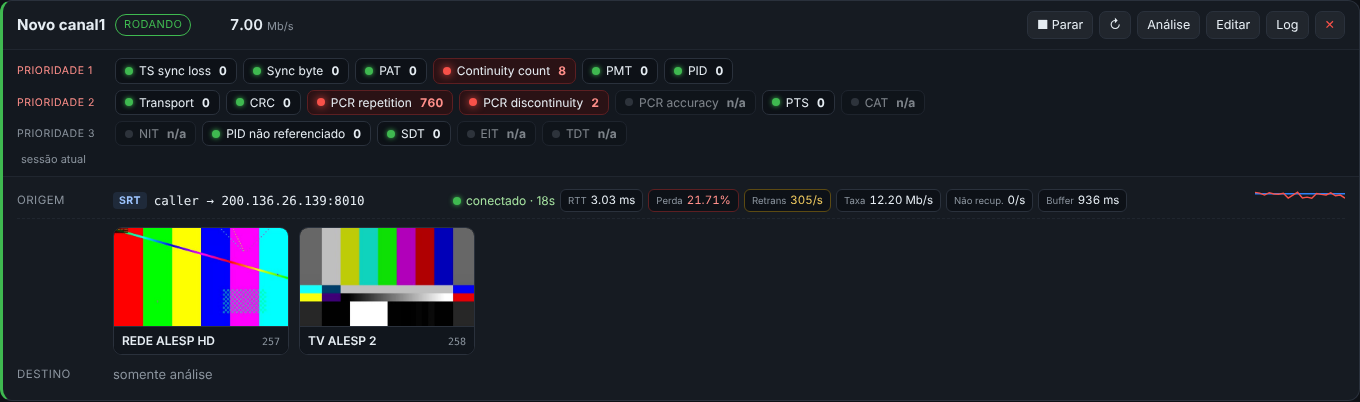
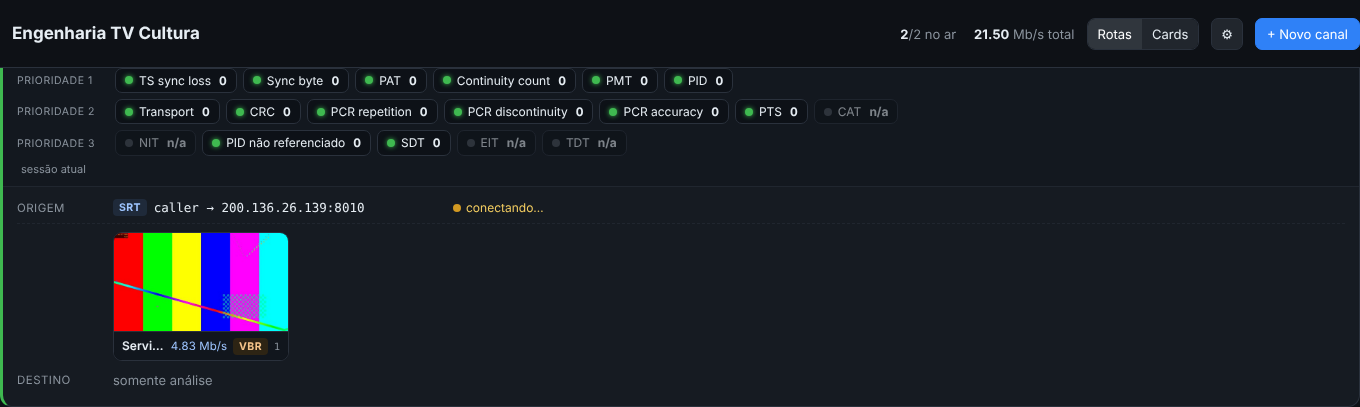
asi2srt 2.14.0: identifica se o sinal é CBR ou VBR (TS e cada serviço)
- classificação pela variação da taxa segundo a segundo (CBR: TS < 2%, serviço < 3%)
- taxa medida pelo relógio do fluxo (PCR): pacotes entre PCRs / tempo entre PCRs, imune a
  rajadas de rede e carga do computador; cai para o tempo de chegada se não houver PCR
- selo CBR/VBR com variação na rota, no card, nas janelas dos serviços e na análise
- nome do serviço na janela não é mais cortado (taxa vai para a segunda linha)

Claude-Session: https://claude.ai/code/session_011TCfVYu9uCxCnx7Wazy44h

diff --git a/asi2srt.py b/asi2srt.py
@@ -47,7 +47,7 @@ import urllib.request
 from http.server import BaseHTTPRequestHandler, ThreadingHTTPServer
 from urllib.parse import parse_qs, urlparse
 
-__version__ = "2.13.2"
+__version__ = "2.14.0"
 TITULO_PADRAO = "Engenharia TV Cultura"
 
 try:
@@ -644,6 +644,19 @@ TIPOS_SERVICO = {
     0x19: "TV HD H.264", 0x1F: "TV HEVC", 0xA1: "TV 1-seg", 0xC0: "Dados ISDB",
 }
 
+def classificar_taxa(valores, limite_cbr_pct, janela=30, minimo=8):
+    """CBR ou VBR a partir das taxas medidas a cada segundo (bit/s).
+    Usa o coeficiente de variação (desvio padrão / média) dos últimos 'janela' segundos com sinal."""
+    v = [x for x in list(valores)[-janela:] if x > 0]
+    if len(v) < minimo:
+        return {"modo": None, "variacao_pct": None, "amostras": len(v)}
+    media = sum(v) / len(v)
+    desvio = (sum((x - media) ** 2 for x in v) / len(v)) ** 0.5
+    cv = 100.0 * desvio / media if media else 0.0
+    return {"modo": "CBR" if cv < limite_cbr_pct else "VBR", "variacao_pct": round(cv, 1),
+            "min": int(min(v)), "max": int(max(v)), "media": int(media), "amostras": len(v)}
+
+
 _INV_BITS = bytes(int(f"{i:08b}"[::-1], 2) for i in range(256))
 
 
@@ -671,6 +684,10 @@ def _texto_dvb(b: bytes) -> str:
     except UnicodeDecodeError:
         s = b.decode("latin-1")
     return "".join(ch for ch in s if ch >= " ").strip()
+
+
+LIMITE_CBR_TS_PCT = 2.0       # TS: taxa total variando menos que isso = CBR
+LIMITE_CBR_SERVICO_PCT = 3.0  # serviço: encoder CBR de verdade fica abaixo de ~3% (janelas de 1 s, pelo PCR)
 
 
 class AnalisadorTS:
@@ -732,6 +749,16 @@ class AnalisadorTS:
         self.taxa = {}
         self.taxa_total = 0
         self.hist_total = collections.deque(maxlen=300)
+        self.hist_serv = {}         # número do programa -> deque das taxas por segundo (por chegada)
+        # taxa medida pelo relógio do próprio fluxo (PCR): não depende de quando os pacotes chegam
+        self.pid_prog = {}          # pid -> número do programa
+        self.pcr_prog = {}          # pid de PCR -> número do programa
+        self.cnt_prog = {}          # número do programa -> pacotes contados
+        self.pcr_cnt = {}           # pid de PCR -> cnt_prog no último PCR
+        self.acc_ts = {}            # pid de PCR -> taxas do TS em cada intervalo de PCR (1 s corrente)
+        self.acc_prog = {}          # programa -> taxas do programa em cada intervalo de PCR
+        self.hist_pcr_ts = collections.deque(maxlen=300)
+        self.hist_serv_pcr = {}
         self.emb = {}               # pid -> último pacote embaralhado?
         self.ultimo_scr = None
         # PCR
@@ -778,6 +805,7 @@ class AnalisadorTS:
         idx0 = self.pacotes
         self.pacotes += n
         npid, visto, cc_est, es_pids, pmt_pids = self.n_pid, self.visto, self.cc, self.es_pids, self.pmt_pids
+        pid_prog, cnt_prog = self.pid_prog, self.cnt_prog
         for k in range(n):
             i = k * 188
             if d[i] != 0x47:
@@ -799,6 +827,9 @@ class AnalisadorTS:
             pid = ((b1 & 0x1F) << 8) | d[i + 2]
             npid[pid] = npid.get(pid, 0) + 1
             visto[pid] = agora
+            pp = pid_prog.get(pid)
+            if pp is not None:
+                cnt_prog[pp] = cnt_prog.get(pp, 0) + 1
             if pid == 0x1FFF:
                 continue
             if b1 & 0x80:
@@ -850,15 +881,26 @@ class AnalisadorTS:
         st = self.pcr.get(pid)
         if st is None or disc:
             self.pcr[pid] = [pcr, idx, pcr, idx, st[4] if st and not disc else None]
+            num = self.pcr_prog.get(pid)
+            self.pcr_cnt[pid] = self.cnt_prog.get(num, 0) if num is not None else None
             return
         ult, uidx, apcr, aidx, taxa = st
         dif = pcr - ult
+        num = self.pcr_prog.get(pid)
+        c_agora = self.cnt_prog.get(num, 0) if num is not None else None
+        c_ant = self.pcr_cnt.get(pid)
+        self.pcr_cnt[pid] = c_agora
         if dif < 0 or dif > self.PCR_DISC:
             self._erro("pcr_disc", agora)
             self.pcr[pid] = [pcr, idx, pcr, idx, None]
             return
         if dif > self.PCR_REP:
             self._erro("pcr_rep", agora)
+        if dif > 0 and idx > uidx:
+            dt = dif / 27_000_000
+            self.acc_ts.setdefault(pid, []).append((idx - uidx) * 1504 / dt)
+            if c_agora is not None and c_ant is not None and c_agora >= c_ant:
+                self.acc_prog.setdefault(num, []).append((c_agora - c_ant) * 1504 / dt)
         if dif > jan[0]:
             jan[0] = dif
         if taxa:
@@ -984,6 +1026,7 @@ class AnalisadorTS:
             self.pmt_pids = novos
             self.es_pids = {k: v for k, v in self.es_pids.items() if v[0] in novos}
             self.programas = {k: v for k, v in self.programas.items() if k in novos}
+            self._mapear_programas()
 
     def _pmt(self, pid, sec, agora):
         if sec[0] != 0x02:
@@ -1018,6 +1061,22 @@ class AnalisadorTS:
         self.es_pids.update(es)
         self.programas[pid] = {"pcr_pid": pcr_pid, "ca": ca}
         self.ca_pids |= ca
+        self._mapear_programas()
+
+    def _mapear_programas(self):
+        pp, pcr = {}, {}
+        for ppid, num in self.pmt_pids.items():
+            pp[ppid] = num
+            c = (self.programas.get(ppid) or {}).get("pcr_pid")
+            if c is not None and c != 0x1FFF:
+                pcr[c] = num
+                pp.setdefault(c, num)
+        for e, v in self.es_pids.items():
+            if v[0] in self.pmt_pids:
+                pp[e] = self.pmt_pids[v[0]]
+        self.pid_prog.clear()
+        self.pid_prog.update(pp)
+        self.pcr_prog = pcr
 
     def _sdt(self, sec):
         if len(sec) < 15:
@@ -1058,6 +1117,20 @@ class AnalisadorTS:
             self.taxa = {p: (n - self.n_ant.get(p, 0)) * 1504 / dt for p, n in self.n_pid.items()}
             self.taxa_total = sum(self.taxa.values())
             self.hist_total.append(int(self.taxa_total))
+            if self.acc_ts:
+                ref = max(self.acc_ts, key=lambda p: len(self.acc_ts[p]))
+                v = self.acc_ts[ref]
+                self.hist_pcr_ts.append(int(sum(v) / len(v)))
+            for num, v in self.acc_prog.items():
+                self.hist_serv_pcr.setdefault(num, collections.deque(maxlen=60)).append(int(sum(v) / len(v)))
+            self.acc_ts, self.acc_prog = {}, {}
+            for ppid, num in self.pmt_pids.items():
+                pids = {ppid} | {e for e, v in self.es_pids.items() if v[0] == ppid}
+                pcr = (self.programas.get(ppid) or {}).get("pcr_pid")
+                if pcr is not None and pcr != 0x1FFF:
+                    pids.add(pcr)
+                self.hist_serv.setdefault(num, collections.deque(maxlen=60)).append(
+                    int(sum(self.taxa.get(p, 0) for p in pids)))
             if self.taxa_total > 0 and self.ultimo_pacote is not None and agora - self.ultimo_pacote < self.LIM_SINAL:
                 e = self.est_taxa
                 e[0] += 1
@@ -1166,17 +1239,31 @@ class AnalisadorTS:
                     pids.add(pcr)
                 out.append({"numero": num, "nome": sdt[0] if sdt and sdt[0] else f"Programa {num}",
                             "video": any(v[0] == ppid and v[2] == "video" for v in self.es_pids.values()),
-                            "taxa": int(sum(self.taxa.get(p, 0) for p in pids)) if fluindo else 0})
+                            "taxa": int(sum(self.taxa.get(p, 0) for p in pids)) if fluindo else 0,
+                            "modo": self._modo_serv(num)})
             return out
 
+    def _modo_ts(self):
+        if len(self.hist_pcr_ts) >= 8:
+            return {**classificar_taxa(self.hist_pcr_ts, LIMITE_CBR_TS_PCT), "fonte": "PCR"}
+        return {**classificar_taxa(self.hist_total, LIMITE_CBR_TS_PCT), "fonte": "chegada"}
+
+    def _modo_serv(self, num):
+        h = self.hist_serv_pcr.get(num)
+        if h and len(h) >= 8:
+            return {**classificar_taxa(h, LIMITE_CBR_SERVICO_PCT), "fonte": "PCR"}
+        return {**classificar_taxa(self.hist_serv.get(num, ()), LIMITE_CBR_SERVICO_PCT), "fonte": "chegada"}
+
     def taxas(self):
-        """Taxa total do TS e taxa útil (sem pacotes nulos), em bit/s, medidas a cada 1 s."""
+        """Taxa total do TS e taxa útil (sem pacotes nulos), em bit/s, medidas a cada 1 s, e se é CBR ou VBR."""
         with self.lock:
             fluindo = self.ultimo_pacote is not None and time.monotonic() - self.ultimo_pacote < self.LIM_SINAL
+            modo = self._modo_ts()
             if not fluindo:
-                return {"taxa_ts": 0, "taxa_util": 0, "taxa_nulos": 0}
+                return {"taxa_ts": 0, "taxa_util": 0, "taxa_nulos": 0, "modo_ts": modo}
             nulos = int(self.taxa.get(0x1FFF, 0))
-            return {"taxa_ts": int(self.taxa_total), "taxa_util": int(self.taxa_total) - nulos, "taxa_nulos": nulos}
+            return {"taxa_ts": int(self.taxa_total), "taxa_util": int(self.taxa_total) - nulos, "taxa_nulos": nulos,
+                    "modo_ts": modo}
 
     def _desc_pid(self, pid):
         fixos = {0: "PAT", 1: "CAT", 2: "TSDT", 0x10: "NIT", 0x11: "SDT/BAT", 0x12: "EIT",
@@ -1256,6 +1343,7 @@ class AnalisadorTS:
                 if pcr_pid is not None and pcr_pid not in self.es_pids:
                     tx += int(self.taxa.get(pcr_pid, 0)) if fluindo else 0
                 servicos.append({
+                    "modo": self._modo_serv(num),
                     "numero": num, "nome": sdt[0] or f"Programa {num}", "provedor": sdt[1],
                     "tipo": TIPOS_SERVICO.get(sdt[2], f"0x{sdt[2]:02X}" if sdt[2] is not None else ""),
                     "pmt": f"0x{ppid:04X}", "pcr_pid": f"0x{pcr_pid:04X}" if pcr_pid is not None else "",
@@ -1281,7 +1369,8 @@ class AnalisadorTS:
                     "taxa_util": int(total - (self.taxa.get(0x1FFF, 0) if fluindo else 0)),
                     "tsid": self.tsid, "onid": self.onid, "rede": self.rede, "hora_ts": self.hora_ts,
                     "n_pids": len(self.n_pid), "n_servicos": len(self.pmt_pids),
-                    "cbr": self.taxa.get(0x1FFF, 0) > 0, "pacotes": self.pacotes, "desde": self.desde,
+                    "cbr": self.taxa.get(0x1FFF, 0) > 0, "modo_taxa": self._modo_ts(),
+                    "pacotes": self.pacotes, "desde": self.desde,
                 },
                 "tr101290": {
                     "contadores": dict(self.cont),
@@ -2977,9 +3066,13 @@ color:#ffd8d6;padding:10px 16px;border-radius:9px;z-index:20;max-width:90vw}
  color:var(--mut);font-size:11px;line-height:1.3}
 .pv [hidden]{display:none!important}
 .pv .pvn{display:flex;gap:6px;align-items:baseline;padding:5px 8px;font-size:12px;background:#11161d;border-top:1px solid var(--line)}
+.modo{display:inline-block;font-size:10.5px;font-weight:700;letter-spacing:.04em;padding:1px 6px;border-radius:4px;vertical-align:middle}
+.modo small{font-weight:400;opacity:.8}.modo.cbr{background:#1f2a3a;color:#9ec5ff}.modo.vbr{background:#2d2414;color:#f5c48a}
+.modo.med{background:#1c2128;color:var(--mut);font-weight:400}
 .pv .pvn .pvt{font-size:11.5px;font-variant-numeric:tabular-nums;color:#9ec5ff;white-space:nowrap}
 .rb .ut{display:block;font-size:11px;font-weight:400;color:var(--mut)}.rb .ut b{color:#a6e3a1;font-weight:600}
-.pv .pvn b{font-weight:600;white-space:nowrap;overflow:hidden;text-overflow:ellipsis;flex:1}.pv .pvn small{color:var(--mut);font-family:ui-monospace,monospace}
+.pv .pvn{flex-wrap:wrap;row-gap:2px}
+.pv .pvn b{font-weight:600;white-space:nowrap;overflow:hidden;text-overflow:ellipsis;flex:1 1 100%}.pv .pvn small{color:var(--mut);font-family:ui-monospace,monospace}
 .pv.sai{outline:2px solid #2f81f7;outline-offset:-1px}
 .pv.g{width:240px;flex:none}.serv .sh .pv{margin:-2px 4px -2px -4px}
 .svout{display:inline-flex;align-items:center;gap:6px}.svout img{width:48px;height:27px;object-fit:cover;border-radius:4px;border:1px solid var(--line);background:#05070a}
@@ -3138,7 +3231,7 @@ function card(c){const s=c.status||{},ativo=s.estado!=='parado';s._id=c.id;
  ${ativo&&(s.servicos||[]).length?`<div class="svs">${s.servicos.map(sv=>{const sai=c.saidas.some(x=>{const r=servRotulo(x,s.servicos);return !r||r.some(q=>String(q.numero)===String(sv.numero))});
    return prevBox(c.id,sv,sai&&c.saidas.length?'sai':'')}).join('')}</div>`:''}
  ${!ativo&&c.ultimo_relatorio?relCard(c):`${spark(s.historico)}
- <div class="met"><div>${(()=>{const x=taxaTS(s);return`<small>Bitrate do TS</small><b class="big">${mb(x.ts)}<small> Mb/s</small></b>${x.temNulos?`<small style="color:var(--mut)">útil <b style="color:#a6e3a1;font-size:12px">${mb(x.ut)}</b> · nulos ${mb(x.nul)}</small>`:''}`})()}</div>
+ <div class="met"><div>${(()=>{const x=taxaTS(s);return`<small>Bitrate do TS ${seloModo(s.modo_ts,true)}</small><b class="big">${mb(x.ts)}<small> Mb/s</small></b>${x.temNulos?`<small style="color:var(--mut)">útil <b style="color:#a6e3a1;font-size:12px">${mb(x.ut)}</b> · nulos ${mb(x.nul)}</small>`:''}`})()}</div>
  <div><small>Reinícios</small><b>${s.reinicios||0}</b></div><div><small>Uptime</small><b>${dur(s.uptime_s)}</b></div></div>`}
  ${tr(s)}
  <div class="msg" title="${esc(s.ultima_msg)}">${esc(s.ultima_msg||'')}</div>
@@ -3178,13 +3271,16 @@ function no(rot,x,e,ativo,ps,cid,lista){const tp=TIPO_TXT[x.tipo]||x.tipo,cl=x.t
  <span class="chips">${st}${chipServ}${e?chipsSRT(e):''}${ps&&ps.estado==='rodando'?`${!e&&ps.info&&ps.info.taxa_kbps?`<span class="chip"><small>Taxa</small>${(ps.info.taxa_kbps/1000).toFixed(2)} Mb/s</span>`:''}<span class="chip"><small>Enviado</small>${fmtB(ps.enviado_conexao_bytes)}</span>${ps.info&&ps.info.velocidade?`<span class="chip"><small>Veloc.</small>${esc(ps.info.velocidade)}</span>`:''}${ps.reinicios?`<span class="chip w" title="vezes que a saída caiu e reconectou"><small>Quedas</small>${ps.reinicios}</span>`:''}`:''}${falha}</span>${e&&e.estado==='conectado'?mspark(e.hist):ps&&ps.estado==='rodando'&&ps.hist&&ps.hist.length>1?mspark(ps.hist.map(v=>[v,0,0])):'<span></span>'}</div>`}
 const PREV={};let prevAlvos=new Set();
 const mbps=b=>(b/1e6).toFixed(2)+' Mb/s';
+function seloModo(m,curto){if(!m)return'';if(!m.modo)return curto?'':`<span class="modo med" title="medindo a variação da taxa (${m.amostras||0} s)">medindo…</span>`;
+ const tip=`${m.modo==='CBR'?'Taxa constante':'Taxa variável'} — variação ${m.variacao_pct}% nos últimos ${m.amostras} s`+(m.min?` (mín ${mbps(m.min)}, máx ${mbps(m.max)})`:'');
+ return`<span class="modo ${m.modo.toLowerCase()}" title="${esc(tip)}">${m.modo}${curto?'':` <small>±${m.variacao_pct}%</small>`}</span>`}
 function taxaTS(s){const ts=s.taxa_ts||s.bitrate_bps||0,ut=s.taxa_util||0,nul=s.taxa_nulos||0;
  return{ts,ut,nul,temNulos:ts>0&&nul/ts>0.02}}
 function prevBox(cid,s,cls){const k=`${cid}:${s.numero}`,p=PREV[k]||{};
  const msg=!s.video?'♪ sem vídeo':p.u?'':esc(p.erro||'carregando imagem…');
  if(s.video)prevAlvos.add(k);
  return`<div class="pv ${cls||''}" title="${esc(s.nome)} · serviço ${s.numero}"><div class="im">${s.video?`<img data-prev="${k}" ${p.u?`src="${p.u}"`:'hidden'} alt="">`:''}
- <div class="pvm" data-prevmsg="${k}" ${p.u?'hidden':''}>${msg}</div></div><div class="pvn"><b>${esc(s.nome)}</b>${s.taxa?`<span class="pvt" title="taxa deste serviço (vídeo + áudio + dados do programa)">${mbps(s.taxa)}</span>`:''}<small>${s.numero}</small></div></div>`}
+ <div class="pvm" data-prevmsg="${k}" ${p.u?'hidden':''}>${msg}</div></div><div class="pvn"><b>${esc(s.nome)}</b>${s.taxa?`<span class="pvt" title="taxa deste serviço (vídeo + áudio + dados do programa)">${mbps(s.taxa)}</span>${seloModo(s.modo,true)}`:''}<small>${s.numero}</small></div></div>`}
 let prevOcupado=false;
 async function atualizarPrevias(){if(prevOcupado||document.hidden)return;prevOcupado=true;
  try{for(const k of [...prevAlvos]){const [cid,sid]=k.split(':');
@@ -3219,7 +3315,7 @@ function linha(c){const s=c.status||{},ativo=s.estado!=='parado',srt=s.srt||{},t
   +`<button data-a="editar" data-id="${c.id}">Editar</button><button data-a="log" data-id="${c.id}">Log</button><button class="perigo" data-a="excluir" data-id="${c.id}">✕</button>`;
  const destinos=c.saidas.length?c.saidas.map((x,i)=>no('Destino '+(i+1),x,srt['SRTOUT'+i],ativo,(s.saidas||[])[i],c.id,s.servicos)).join(''):'<div class="no"><span class="pp">Destino</span><span class="ed" style="color:var(--mut)">somente análise</span><span></span><span></span></div>';
  return`<div class="rota e-${esc(s.estado)}"><div class="rh"><b class="rn" data-ana="${c.id}">${esc(c.nome)}</b><span class="pill ${esc(s.estado)}">${esc((s.estado||'').replace('_',' '))}</span>
- ${dots}<span class="rb">${ativo?(()=>{const x=taxaTS(s);return`<span title="taxa total do TS (inclui pacotes nulos)">${mb(x.ts)} <small>Mb/s TS</small></span>${x.temNulos?`<span class="ut" title="sem pacotes nulos (enchimento)">útil <b>${mb(x.ut)}</b> · nulos ${mb(x.nul)}</span>`:''}`})():r?`<small>méd.</small> ${mb(r.taxa.media)} <small>Mb/s</small>`:''}</span><span class="acs">${acs}</span></div>
+ ${dots}<span class="rb">${ativo?(()=>{const x=taxaTS(s);return`<span title="taxa total do TS (inclui pacotes nulos)">${mb(x.ts)} <small>Mb/s TS</small></span> ${seloModo(s.modo_ts)}${x.temNulos?`<span class="ut" title="sem pacotes nulos (enchimento)">útil <b>${mb(x.ut)}</b> · nulos ${mb(x.nul)}</span>`:''}`})():r?`<small>méd.</small> ${mb(r.taxa.media)} <small>Mb/s</small>`:''}</span><span class="acs">${acs}</span></div>
  ${indicadores(ativo?t:null,ativo?null:r)}
  <div class="rl">${no('Origem',c.entrada,srt.SRTIN,ativo)}
  ${ativo&&(s.servicos||[]).length?`<div class="svs">${s.servicos.map(sv=>{const sai=c.saidas.some(x=>{const r=servRotulo(x,s.servicos);return !r||r.some(q=>String(q.numero)===String(sv.numero))});
@@ -3338,7 +3434,8 @@ function rAna(){const a=ana,r=a.resumo,t=a.tr101290,S=a.salvo,p=a.periodo||{},ts
   +(p.motivo==='em andamento'?' Sessão ainda em andamento: este é o último salvamento automático.':'');
  $('#akpi').innerHTML=(S?kpi('Duração',dur(p.duracao_s))+kpi('Bitrate médio',fmtR(ts.media))+kpi('Bitrate mínimo',fmtR(ts.min))+kpi('Bitrate máximo',fmtR(ts.max))
   :kpi('Bitrate TS',fmtR(r.taxa_total))+kpi('Bitrate útil',fmtR(r.taxa_util),'Sem pacotes nulos')+kpi('Sessão',dur(p.duracao_s)))
-  +kpi('Taxa',r.cbr?'CBR':'VBR','CBR = TS com pacotes nulos (taxa constante)')+kpi('TS ID',r.tsid??'—')+kpi('Rede',esc(r.rede||'—'))
+  +kpi('Taxa do TS',r.modo_taxa&&r.modo_taxa.modo?`${r.modo_taxa.modo} <small style="font-size:12px;color:var(--mut)">±${r.modo_taxa.variacao_pct}%</small>`:'medindo…',
+     r.modo_taxa&&r.modo_taxa.modo?`variação da taxa total nos últimos ${r.modo_taxa.amostras} s (mín ${fmtR(r.modo_taxa.min)}, máx ${fmtR(r.modo_taxa.max)}). CBR abaixo de 2%.`:'')+kpi('TS ID',r.tsid??'—')+kpi('Rede',esc(r.rede||'—'))
   +kpi('Serviços',r.n_servicos)+kpi('PIDs',r.n_pids)+kpi('Hora do TS',esc((r.hora_ts||'—').split(' ').pop()),'Data/hora da TDT/TOT: '+(r.hora_ts||'não recebida'))
   +kpi('Pacotes',r.pacotes.toLocaleString('pt-BR'));
  $('#adesde').textContent='desde '+new Date(r.desde*1000).toLocaleTimeString('pt-BR');
@@ -3402,7 +3499,7 @@ function rAna(){const a=ana,r=a.resumo,t=a.tr101290,S=a.salvo,p=a.periodo||{},ts
   const dest=cfgA.map((x,i)=>{const r=servRotulo(x,a.servicos.map(q=>({numero:q.numero,nome:q.nome})));return(!r||r.some(q=>String(q.numero)===String(s.numero)))?`<b>Destino ${i+1}</b> (${esc(resS(x))})`:null}).filter(Boolean);
   return`<div class="serv">${!a.salvo&&vid?`<div style="display:flex;gap:12px;padding:10px 11px 0">${prevBox(anaId,{numero:s.numero,nome:s.nome,video:true},'g')}</div>`:''}
   <div class="sh"><b>${esc(s.nome)}</b><span class="m">${esc(s.provedor||'')}</span>
-  ${s.tipo?`<span class="badge">${esc(s.tipo)}</span>`:''}${s.embaralhado?'<span class="badge r">embaralhado</span>':''}<span class="tx">${fmtR(s.taxa)}</span></div>
+  ${s.tipo?`<span class="badge">${esc(s.tipo)}</span>`:''}${s.embaralhado?'<span class="badge r">embaralhado</span>':''}${seloModo(s.modo)}<span class="tx">${fmtR(s.taxa)}</span></div>
   ${cfgA.length?`<div class="saiem">${dest.length?'Sai em: '+dest.join(' · '):'Não sai em nenhum destino'}</div>`:''}
   <div class="meta"><span>Programa <b>${s.numero}</b></span><span>PMT <b>${s.pmt}</b></span><span>PCR <b>${s.pcr_pid||'—'}</b></span>
   ${s.pcr?`<span>Intervalo PCR <b>${s.pcr.intervalo_ms} ms</b></span><span>Jitter PCR <b>${s.pcr.jitter_ns} ns</b></span>`:''}</div>

diff --git a/tests/test_tr101290.py b/tests/test_tr101290.py
@@ -315,3 +315,73 @@ def test_desempenho_com_pcr_e_psi():
     gasto = time.perf_counter() - t0
     taxa_mbps = n_pacotes * 1504 / gasto / 1e6
     assert taxa_mbps > 60, f"processa só {taxa_mbps:.0f} Mb/s"
+
+
+# ---------------- CBR x VBR ----------------
+def test_classificar_taxa():
+    from asi2srt import classificar_taxa
+    assert classificar_taxa([15_000_000] * 5, 2)["modo"] is None              # poucas amostras: medindo
+    cbr = classificar_taxa([15_000_000 + (i % 3) * 40_000 for i in range(30)], 2)
+    assert cbr["modo"] == "CBR" and cbr["variacao_pct"] < 1
+    vbr = classificar_taxa([5_000_000, 7_500_000, 3_800_000, 6_200_000, 4_100_000] * 6, 2)
+    assert vbr["modo"] == "VBR" and vbr["variacao_pct"] > 20
+    assert classificar_taxa([0] * 20 + [15_000_000] * 10, 2)["modo"] == "CBR"   # ignora segundos sem sinal
+
+
+def _alimentar(an, g, pacotes_por_segundo):
+    """Um 'segundo' por item da lista, com N pacotes de vídeo (além de PAT/PMT)."""
+    for seg, n in enumerate(pacotes_por_segundo):
+        for passo in range(10):
+            t = seg + passo / 10
+            an.processar(g.psi(0, pat()) + g.psi(PMT_PID, pmt()) + b"".join(g.pkt(VIDEO) for _ in range(n // 10))
+                         + g.pkt(AUDIO), t)
+            an.verificar(t)
+
+
+def test_ts_cbr_e_servico_vbr():
+    import random
+    random.seed(1)
+    an, g = AnalisadorTS(), Gerador()
+    _alimentar(an, g, [3000] * 25)                                             # taxa constante
+    assert an.taxas()["modo_ts"]["modo"] == "CBR"
+    an2, g2 = AnalisadorTS(), Gerador()
+    _alimentar(an2, g2, [random.choice([1500, 3000, 4500, 2200]) for _ in range(25)])   # taxa variável
+    assert an2.taxas()["modo_ts"]["modo"] == "VBR"
+    serv = an2.servicos_resumo()[0]
+    assert serv["modo"]["modo"] == "VBR" and serv["modo"]["variacao_pct"] > 5
+    assert an2.analise(25)["resumo"]["modo_taxa"]["modo"] == "VBR"
+
+
+def test_cbr_pelo_pcr_mesmo_com_chegada_irregular():
+    """TS CBR (mesmo número de pacotes entre PCRs) entregue em rajadas irregulares:
+    pelo PCR continua CBR. TS VBR (número de pacotes variando) é VBR."""
+    import random
+    random.seed(3)
+    clk = 27_000_000
+
+    def fluxo(an, g, pacotes):
+        pcr = 0
+        rajada, t = [], 0.0
+        for k, n in enumerate(pacotes):              # um intervalo de PCR de 20 ms por item
+            pcr += clk // 50
+            bloco = [pkt_pcr(g, VIDEO, pcr)] + [g.pkt(VIDEO) for _ in range(n)] + [g.pkt(0x1FFF) for _ in range(5)]
+            if k % 50 == 0:
+                bloco = [g.psi(0, pat()), g.psi(PMT_PID, pmt())] + bloco
+            rajada += bloco
+            if random.random() < 0.3:                # chegada em rajadas em horários irregulares
+                t += random.uniform(0.05, 0.6)
+                an.processar(b"".join(rajada), t)
+                an.verificar(t)
+                rajada = []
+        an.processar(b"".join(rajada), t + 0.1)
+        an.verificar(t + 1.1)
+
+    an, g = AnalisadorTS(), Gerador()
+    fluxo(an, g, [180] * 1500)
+    m = an.taxas()["modo_ts"]
+    assert m["fonte"] == "PCR" and m["modo"] == "CBR", m
+    assert an.servicos_resumo()[0]["modo"]["modo"] == "CBR"
+    an2, g2 = AnalisadorTS(), Gerador()
+    fluxo(an2, g2, [random.choice([60, 120, 180, 260]) for _ in range(1500)])
+    m2 = an2.taxas()["modo_ts"]
+    assert m2["fonte"] == "PCR" and m2["modo"] == "VBR", m2
